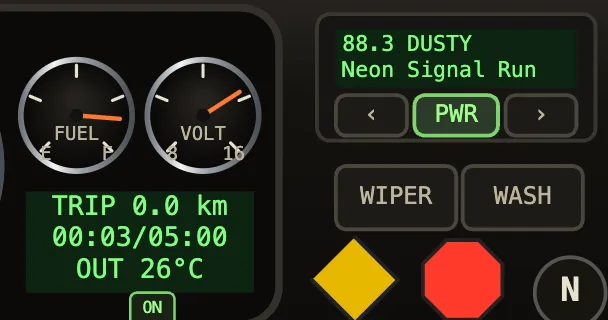
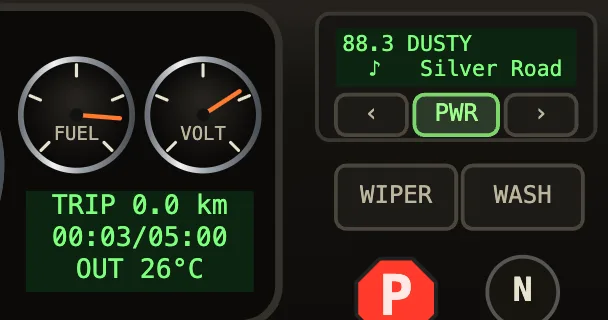
Cockpit: CAB button replaces NIGHT, gauges without end marks, PARK / shifter moved; battery as a resource (cab light on key ON, engine-off drain x2.5, rest healing, flat with the engine off = ride lost), washer x5; landing cards re-rendered

diff --git a/landing/whitepaper.html b/landing/whitepaper.html
@@ -129,7 +129,7 @@
     <article class="card3d" tabindex="0" data-live="i-rpm"><div class="img" aria-hidden="true"></div><footer><b>TACHOMETER</b><p>RPM×100. Idle 700, red zone from 2800. Below about 450 in gear with the clutch out, it stalls.</p></footer></article>
     <article class="card3d" tabindex="0" data-live="i-gear"><div class="img" aria-hidden="true"></div><footer><b>GEAR WINDOW</b><p>Current gear, amber while the engine runs: N, 1–7, R. Seven gears, ratio 6.15 → 0.75.</p></footer></article>
     <article class="card3d" tabindex="0" data-live="i-engine"><div class="img" aria-hidden="true"></div><footer><b>ENGINE GAUGES</b><p>TEMP in °C, red from about 98 °C, plateaus at 85–95. OIL and AIR follow the engine; H2O is the washer tank, it drains while you spray and refills slowly.</p></footer></article>
-    <article class="card3d" tabindex="0" data-live="i-power"><div class="img" aria-hidden="true"></div><footer><b>VOLT &amp; FUEL</b><p>VOLT is the battery: lights, heater, radio and instruments drain it, the alternator refills it only while the engine runs. FUEL drifts down with distance as a display – the truck never runs dry.</p></footer></article>
+    <article class="card3d" tabindex="0" data-live="i-power"><div class="img" aria-hidden="true"></div><footer><b>VOLT &amp; FUEL</b><p>VOLT is the battery: lights, heater, radio and instruments drain it, the alternator refills it only while the engine runs, and with the engine off it drains much faster. FUEL drifts down with distance as a display – the truck never runs dry.</p></footer></article>
     <article class="card3d" tabindex="0" data-live="i-trip"><div class="img" aria-hidden="true"></div><footer><b>TRIP LCD</b><p>Kilometres driven, shift time over the minimum and outside °C. The server's clock is the one that counts; this one is your guide.</p></footer></article>
     <article class="card3d" tabindex="0" data-live="i-bars"><div class="img" aria-hidden="true"></div><footer><b>PEDALS &amp; HULL</b><p>CLU, BRK and GAS are the pedals, HUL is hull integrity in %. Below 100 % power is cut (down to 40 %) and the steering pulls to one side; 0 % ends the shift.</p></footer></article>
     <article class="card3d" tabindex="0" data-live="i-lamps-engine"><div class="img" aria-hidden="true"></div><footer><b>LAMPS · ENGINE</b><p>STALL, COLD, STRAIN, BRAKES. Amber means watch it, red means fix it now, blinking red means seconds left.</p></footer></article>
@@ -143,8 +143,8 @@
       <tr><td><b>GEAR</b> window</td><td>Current gear; amber when the engine runs.</td><td>7 gears, ratio 6.15 → 0.75.</td></tr>
       <tr><td><b>TRIP</b> LCD</td><td>Kilometres driven, shift time over the minimum (<code>mm:ss / mm:ss</code>) and outside °C.</td><td>The server's clock is the one that counts; this one is your guide.</td></tr>
       <tr><td><b>TEMP</b></td><td>Engine temperature in °C; red from about 98 °C.</td><td>Warm up gently when it is cold; it plateaus at 85–95 °C.</td></tr>
-      <tr><td><b>VOLT</b></td><td>Battery. Lights, heater, radio and instruments drain it; the alternator refills it only while the engine runs.</td><td>Do not sit with everything on and the engine off.</td></tr>
-      <tr><td><b>H2O</b></td><td>Washer fluid tank; drains while you spray, refills slowly.</td><td>Spray in short bursts.</td></tr>
+      <tr><td><b>VOLT</b></td><td>Battery. Lights, heater, radio and instruments drain it; the alternator refills it only while the engine runs. With everything switched off it slowly recovers.</td><td>Do not sit with the key on and the engine off: a flat battery with the engine off ends the ride.</td></tr>
+      <tr><td><b>H2O</b></td><td>Washer fluid tank: about 100 s of spray per ride, it does not refill.</td><td>Spray in short bursts.</td></tr>
       <tr><td><b>AIR</b>, <b>OIL</b>, <b>FUEL</b></td><td>Air pressure and oil pressure follow the engine. FUEL drifts down with distance as a display – the truck never runs dry.</td><td>Informational.</td></tr>
       <tr><td><b>CLU · BRK · GAS · HUL</b> bars</td><td>Four LED columns: clutch, brake and gas pedal positions, and hull integrity in %.</td><td>Hull below 100 % cuts power (down to 40 %) and pulls the steering to one side; 0 % ends the shift.</td></tr>
     </tbody>
@@ -160,7 +160,7 @@
     <article><b class="lp amber">BRAKES</b><p>Hot brakes: hard stops from speed, or driving against a held brake. Hot brakes fade, the parking brake too. Full strain ends the shift.</p></article>
     <article><b class="lp red">OVER-REV</b><p>Revs above the red zone. Change up or lift.</p></article>
     <article><b class="lp amber">GRIND</b><p>A shift attempted without the clutch, or forward ↔ reverse while still rolling.</p></article>
-    <article><b class="lp amber">BAT</b><p>Battery below 30 % (red and blinking below 15 %). Below 1 % lights, radio and heater cut out and the engine will not start.</p></article>
+    <article><b class="lp amber">BAT</b><p>Battery below 30 % (red and blinking below 15 %). The engine will not crank below 12 %. Flat with the engine off, the truck is dead and the ride is over.</p></article>
   </div>
 
   <h3 class="sub">ADVICE FROM THE LONG HAUL</h3>
@@ -172,7 +172,7 @@
     <li><b>Straddle potholes, slow for trenches.</b> A yellow sign comes about 90 m before every hole. A small pothole can be passed between the wheels; a trench or sinkhole needs a lane change or a crawl.</li>
     <li><b>Keep the truck on the road.</b> Poles, guardrails, cacti and other trucks are solid; scratches and bumps cost hull, a direct hit ends the shift.</li>
     <li><b>Lights at night.</b> With no lights the world is black outside the lamp posts; oncoming traffic dazzles you. At night the headlights are the only thing lighting the road.</li>
-    <li><b>Mind the battery.</b> Headlights, heater and radio with the engine off flatten it in minutes.</li>
+    <li><b>Mind the battery.</b> With the engine off, lights, heater and radio flatten it in about a minute. Switch everything off and it recovers a little; headlights, cab light and heater together out-drain the alternator even while driving.</li>
     <li><b>Wash the glass, then wipe.</b> Dust builds up; the washer makes each wiper pass clear far more. Frost needs the heater, not wipers.</li>
     <li><b>Do not alt-tab on a paid shift.</b> A hidden tab pauses the game and earns nothing; the server will not credit those seconds.</li>
     <li><b>Respect the crossroads.</b> Junctions have signals and cross traffic, and a direct hit with another vehicle ends the shift on the spot.</li>

diff --git a/client/js/cockpit/rig.js b/client/js/cockpit/rig.js
@@ -82,12 +82,12 @@ export function drawCockpitRig() {
   gauge(cx - 14 * u, 76 * u, 11 * u, disp.v, 120, 20, 0, 'km/h', u);
   gauge(cx + 14 * u, 76 * u, 11 * u, disp.rpm, 3000, 500, 2800, 'RPM×100', u);
   for (const gx of [cx - 14 * u, cx + 14 * u]) { ctx.strokeStyle = chromeGrad(gx - 11 * u, gx + 11 * u); ctx.lineWidth = .6 * u; ctx.beginPath(); ctx.arc(gx, 76 * u, 11 * u, 0, 7); ctx.stroke(); }
-  miniGauge(cx - 31 * u, 72 * u, 4.4 * u, disp.air, null, 'AIR', '0', '120', u, 0);
-  miniGauge(cx - 41 * u, 72 * u, 4.4 * u, disp.oil, null, 'OIL', '0', '80', u, 0);
-  miniGauge(cx - 31 * u, 82 * u, 4.4 * u, disp.temp, null, 'TEMP', 'C', 'H', u, .8);
-  miniGauge(cx - 41 * u, 82 * u, 4.4 * u, disp.h2o, null, 'H2O', 'E', 'F', u, 0);
-  miniGauge(cx + 31 * u, 72 * u, 4.4 * u, disp.fuel, null, 'FUEL', 'E', 'F', u, 0);
-  miniGauge(cx + 41 * u, 72 * u, 4.4 * u, disp.volt, null, 'VOLT', '8', '16', u, 0);
+  miniGauge(cx - 31 * u, 72 * u, 4.4 * u, disp.air, null, 'AIR', '', '', u, 0);
+  miniGauge(cx - 41 * u, 72 * u, 4.4 * u, disp.oil, null, 'OIL', '', '', u, 0);
+  miniGauge(cx - 31 * u, 82 * u, 4.4 * u, disp.temp, null, 'TEMP', '', '', u, .8);
+  miniGauge(cx - 41 * u, 82 * u, 4.4 * u, disp.h2o, null, 'H2O', '', '', u, 0);
+  miniGauge(cx + 31 * u, 72 * u, 4.4 * u, disp.fuel, null, 'FUEL', '', '', u, 0);
+  miniGauge(cx + 41 * u, 72 * u, 4.4 * u, disp.volt, null, 'VOLT', '', '', u, 0);
   ctx.fillStyle = !pw ? '#1d1409' : st.engineOn ? '#ffb03a' : '#5a3a14'; ctx.font = `bold ${6 * u}px ${MONO}`; ctx.textAlign = 'center'; ctx.textBaseline = 'middle'; ctx.fillText(gearName(st.gear), cx, 77 * u);
   ctx.fillStyle = '#9d957f'; ctx.font = `${1.5 * u}px ${MONO}`; ctx.fillText('GEAR', cx, 73.2 * u);
   // trip LCD
@@ -104,13 +104,13 @@ export function drawCockpitRig() {
   radioPanel(rx, u, pw);
   uiButton('wiper', wip.mode ? 'WIPER ' + wip.mode : 'WIPER', rx + 1.5 * u, 76 * u, 9.5 * u, 5 * u, u, wip.mode > 0);
   uiButton('wash', 'WASH', rx + 11.5 * u, 76 * u, 9.5 * u, 5 * u, u, st.washing);
-  { const vy = 85 * u, px = rx + 6.25 * u;   // centred under the WIPER button
+  { const vy = 86.5 * u, px = rx + 6.25 * u;   // centred under the WIPER button
     uiBtns.push({ id: 'park', x: px - 3.6 * u, y: vy - 3.6 * u, w: 7.2 * u, h: 10.4 * u }); ctx.fillStyle = st.park ? '#ff3a2a' : '#6b1f1a'; ctx.beginPath(); for (let i = 0; i < 8; i++) { const an = Math.PI / 8 + i * Math.PI / 4; ctx.lineTo(px + Math.cos(an) * 3.4 * u, vy + Math.sin(an) * 3.4 * u); } ctx.closePath(); ctx.fill(); ctx.strokeStyle = '#222'; ctx.lineWidth = .3 * u; ctx.stroke();
     ctx.fillStyle = st.park ? '#ffe9e4' : '#c9a29c'; ctx.font = `bold ${4.4 * u}px ${MONO}`; const tb = ctx.textBaseline; ctx.textBaseline = 'middle'; ctx.fillText('P', px, vy + .2 * u); ctx.textBaseline = tb;
     ctx.fillStyle = st.park ? '#ff8a7a' : '#9d957f'; ctx.font = `${1.5 * u}px ${MONO}`; ctx.fillText('PARK', px, vy + 5.2 * u); }
   ignitionPanel(cx + 37 * u, 96.2 * u, u * .78);   // scaled down so the ON zone stays inside the dash panel border
-  { const bw = 8.4 * u, bh = 4 * u, gx = cx - 49 * u, gy = 90.8 * u, gap = .8 * u;   // 2x2 switch grid left of the wheel
-    uiButton('head', 'HEAD', gx, gy, bw, bh, u, dn.head); uiButton('night', 'NIGHT', gx + bw + gap, gy, bw, bh, u, dn.night);
+  { const bw = 8.4 * u, bh = 4 * u, gx = cx - 48 * u, gy = 90.8 * u, gap = .8 * u;   // 2x2 switch grid left of the wheel
+    uiButton('head', 'HEAD', gx, gy, bw, bh, u, dn.head); uiButton('cab', 'CAB', gx + bw + gap, gy, bw, bh, u, dn.cab);
     heatButton(gx, gy + bh + gap, 2 * bw + gap, bh, u); }   // (the cab light has no button: click the dome lamp in the overhead console, or press C)
   // steering column + big wheel
   ctx.fillStyle = '#12100e'; ctx.beginPath(); ctx.moveTo(cx - 6 * u, 88 * u); ctx.lineTo(cx + 6 * u, 88 * u); ctx.lineTo(cx + 9 * u, 112 * u); ctx.lineTo(cx - 9 * u, 112 * u); ctx.fill();
@@ -124,7 +124,7 @@ export function drawCockpitRig() {
   ctx.fillStyle = wl.mark; ctx.beginPath(); ctx.arc(0, -R, 1.2 * u, 0, 7); ctx.fill();   // 12-o'clock marker
   ctx.restore();
   // floor shifter (H pattern, 4 columns: 1/2, 3/4, 5/6, 7/R)
-  { const bx = cx + 68 * u, g = st.gear;
+  { const bx = rx + 16.25 * u, g = st.gear;   // centred under WASH
     const col = g === 0 ? 0 : g < 0 ? 1.5 : [-1.5, -1.5, -.5, -.5, .5, .5, 1.5][g - 1], row = g === 0 ? 0 : g < 0 ? 1 : [-1, 1, -1, 1, -1, 1, -1][g - 1];   // R: right, back
     const lv = leverPos(col, row), kx = bx + lv.col * 2.6 * u, ky = 86 * u + lv.row * 2.6 * u;   // tweened through the neutral channel
     ctx.fillStyle = gb.boot; ctx.beginPath(); ctx.ellipse(bx, 100 * u, 6 * u, 2.6 * u, 0, 0, 7); ctx.fill();

diff --git a/client/js/sim/battery.js b/client/js/sim/battery.js
@@ -6,17 +6,19 @@ import { toast } from '../ui/toast.js';
 import { audio } from './audio.js';
 
 /* Battery (st.batt 0..1, the BAT lamp + VOLT gauge). Drained by the headlights, cab lamp, heater blower, radio, the key-on instruments and the starter;
-   the alternator refills it while the engine runs (more at higher revs, tapering off as it fills). Dead = lights, radio and heater cut out and the engine can't be started. */
-/* the cab light only works with the engine running or starting (its switch is the dome lamp / C) */
-export const cabAllowed = () => st.engineOn || !!st.ign;
+   the alternator refills it while the engine runs (more at higher revs, tapering off as it fills). With the engine OFF every consumer drains OFF_X× faster (nothing recharges it);
+   with everything switched off (key OFF, no lights) it slowly heals up to REST_MAX. Flat (≤ DEAD) with the engine off = the truck is dead, the ride is lost (`st.battLost`, ended in physics.js). */
+/* the cab light works whenever the electrics are on – key ON with the engine off, cranking or running (its switch is the dome lamp / the CAB button / C) */
+export const cabAllowed = () => powered();
 export function toggleCab() {
-  if (!dn.cab && !cabAllowed()) { toast('Cab light needs the engine running – start it first', 1800); return; }
+  if (!dn.cab && !cabAllowed()) { toast('Cab light needs the key on – turn it to ON first', 1800); return; }
   dn.cab = !dn.cab; audio.play(dn.cab ? 'switch' : 'switch-off'); toast(dn.cab ? 'Cab light on' : 'Cab light off', 1000);
 }
 export function updateBattery(dt) {
-  if (!cabAllowed()) dn.cab = false;   // engine stopped / stalled / key off: the lamp goes out with it
+  if (!cabAllowed()) dn.cab = false;   // key off: the lamp goes out with it
   const cranking = st.ign && st.ign.t >= 1.0, B = CFG.BATT;
   let drain = 0;
+  const flatten = st.engineOn ? 1 : B.OFF_X;   // engine off: the battery is all there is
   if (dn.head) drain += B.HEAD;
   if (dn.cab) drain += B.CAB;
   if (powered()) {
@@ -24,14 +26,18 @@ export function updateBattery(dt) {
     if (st.heater) drain += B.HEATER;
     if (radio.on) drain += B.RADIO;
   }
+  drain *= flatten;
   if (cranking) drain += B.STARTER;
   let charge = 0;
   if (st.engineOn) charge = (B.CHARGE_MIN + B.CHARGE_RPM * clamp(st.rpm / REDLINE, 0, 1)) * clamp((1 - st.batt) * 4, .15, 1);
+  if (!st.engineOn && !cranking && drain === 0 && st.batt < B.REST_MAX) charge = B.REST;   // everything off: the battery recovers a little (up to REST_MAX)
   const was = st.batt;
   st.batt = clamp(st.batt + (charge - drain) * dt, 0, 1);
+  if (!st.engineOn && !cranking && was >= B.CRITICAL && st.batt < B.CRITICAL) audio.play('alarm'), toast('BATTERY CRITICAL – switch everything off to let it recover, or start the engine', 4500);
   if (was >= B.LOW && st.batt < B.LOW) audio.play('warn'), toast(st.engineOn ? 'Battery low – too many consumers for these revs' : 'Battery low – switch things off or start the engine to recharge', 3500);
   if (st.batt < B.DEAD) {   // flat: everything electric cuts out until the engine has put some charge back
     if (!st.battDead) { st.battDead = true; audio.play('alarm'); toast('BATTERY DEAD – lights, radio and heater are out' + (st.engineOn ? '' : ', the engine will not start'), 4000); }
   } else if (st.battDead && st.batt > B.DEAD * 3) st.battDead = false;
+  if (!st.engineOn && !cranking && st.batt <= B.DEAD) st.battLost = true;   // flat with nothing to charge it: the ride is over (physics.js)
   if (st.battDead) { dn.head = false; dn.cab = false; st.heater = false; if (radio.on) radio.toggle(); }
 }

diff --git a/client/js/config.js b/client/js/config.js
@@ -112,13 +112,17 @@ export const CFG = {
   BRAKE_COOL: 0.04,          // 1/s cooling towards cold (time constant ≈ 25 s)
   BRAKE_COOL_AIR: 2,         // extra cooling at full speed (× this; moving air)
   BRAKE_FADE_FROM: 0.3,      // heat above which the brakes start to fade
+  WASH_DRAIN: 0.01,          // washer-fluid tank (st.wash 0..1) drained per second of spray: 100 s per ride (was 0.05 = 20 s; ×5 capacity), no refill
   BATT: {                    // battery (sim/battery.js): charge 0..1, per second
     START: 0.85,             // charge at the start of a ride
-    HEAD: 0.0025, CAB: 0.0006, HEATER: 0.0015, RADIO: 0.001, KEY_ON: 0.0003,   // consumers (engine off or on); headlights alone flatten it in ≈ 6 min. TEST-scale like the 5 min ride
+    HEAD: 0.0025, CAB: 0.0015, HEATER: 0.0015, RADIO: 0.001, KEY_ON: 0.0008,   // consumers (engine off or on); headlights alone flatten it in ≈ 6 min. TEST-scale like the 5 min ride
+    OFF_X: 2.5,              // the consumers above drain this many times faster with the engine OFF (only the battery feeds them): HEAD + CAB + key-on ≈ 70 s from full to flat
+    REST: 0.002, REST_MAX: 0.5,   // everything off (key OFF, no lights): the charge creeps back per second, up to REST_MAX – a rest buys a restart, not a full battery
+    CRITICAL: 0.2,           // engine off below this: alarm + toast; at DEAD (below) with the engine off the truck is dead and the ride is lost
     STARTER: 0.06,           // while cranking (~1.3 s)
     CHARGE_MIN: 0.002, CHARGE_RPM: 0.0025,   // alternator: at idle … at redline (≈ .003 at cruise); × a taper above ~75 % charge. Headlights alone are sustainable while driving; HEAD + CAB + HEAT together never are
     LOW: 0.3, DEAD: 0.01,    // BAT lamp amber below LOW (red + blinking below LOW/2), everything out below DEAD
-    START_MIN: 0.06,         // the starter needs at least this much
+    START_MIN: 0.12,         // the starter needs at least this much (a crank costs ≈ .085, so a start that works never ends below DEAD)
   },
   FIGHT_HEAT: 0.12,          // brake heat (0..1) per second while the engine pushes against a held brake (parking brake / pedal) with the clutch out – the brakes fade, the truck starts to creep
   FIGHT_TIME: 8,             // s of driving against the brakes until the drivetrain gives out (STRAIN lamp fills, ride ends). TEST value like STRAIN_TIME

diff --git a/client/js/sim/physics.js b/client/js/sim/physics.js
@@ -64,7 +64,7 @@ export function update(dt) {
   const tgt = input.right - input.left, T = CFG.TRUCK;
   st.steer = approach(st.steer, tgt, tgt ? T.STEER_RATE : T.STEER_RETURN, dt);
   st.keyDeny = Math.max(0, (st.keyDeny || 0) - dt * 2.5); st.grind = Math.max(0, st.grind - dt); st.jolt = Math.max(0, st.jolt - dt * 2.5); st.rumble = Math.max(0, st.rumble - dt * .7); st.crash = Math.max(0, st.crash - dt * 2.2); st.flash = Math.max(0, st.flash - dt * 1.6);
-  const wasWashing = st.washing; st.washing = !!input.wash && st.wash > .02; if (st.washing && (!wasWashing || (washT -= dt) <= 0)) { washT = .55; audio.play('washer'); } st.wash = clamp(st.wash - (st.washing ? .05 : 0) * dt, 0, 1);   // washer-fluid tank: finite (20 s of spray per ride, no refill)
+  const wasWashing = st.washing; st.washing = !!input.wash && st.wash > .02; if (st.washing && (!wasWashing || (washT -= dt) <= 0)) { washT = .55; audio.play('washer'); } st.wash = clamp(st.wash - (st.washing ? CFG.WASH_DRAIN : 0) * dt, 0, 1);   // washer-fluid tank: finite (CFG.WASH_DRAIN: 100 s of spray per ride, no refill)
 
   // engine
   const g = st.gear, ratio = g < 0 ? REV_RATIO : RATIOS[g], c = 1 - st.clutch, wheelRpm = st.v * ratio * K_RPM;
@@ -155,6 +155,7 @@ export function update(dt) {
   // end conditions
   if (fatal) endRide(false, fatal);
   else if (st.hull <= 0) endRide(false, st.blown ? (st.blownWhy === 'brakes' ? 'The drivetrain gave out – you drove against the brakes for too long.' : 'The engine blew – it was held at max revs for too long.') : st.coldT > 0 ? 'The engine gave out – you pushed it hard while it was still cold.' : 'Your truck was wrecked – the hull gave out.');
+  else if (st.battLost) endRide(false, 'The battery went flat with the engine off – the truck is dead.');
   else if (st.offT > CFG.OFFROAD_FAIL_SECONDS || Math.abs(st.d) > 80) endRide(false, 'You spent too long off the road – the truck is stuck in the sand.');
 }
 

diff --git a/client/js/state.js b/client/js/state.js
@@ -11,7 +11,7 @@ export const K_RPM = 2400 / (30 * 0.75);     // wheel rpm per (m/s · ratio)
 export const IDLE = 700, REDLINE = 2800, STALL_RPM = 450;
 /* Every per-ride field and its start value: the initial `st` below and resetRide() (ui/game.js) both use it, so a new field is added in ONE place.
    The varying ones are passed in: engine/rpm (CFG.START_ENGINE_OFF), engine temperature (ambient), steering pull side (random per ride). */
-export const rideStart = ({ rpm, engineOn, temp, pull }) => ({ s: 0, d: 2.4, psi: 0, v: 0, gear: 0, rpm, freeRpm: IDLE, engineOn, batt: CFG.BATT.START, battDead: false, park: true,   // the truck starts parked: release the brake (B / PARK) before moving
+export const rideStart = ({ rpm, engineOn, temp, pull }) => ({ s: 0, d: 2.4, psi: 0, v: 0, gear: 0, rpm, freeRpm: IDLE, engineOn, batt: CFG.BATT.START, battDead: false, battLost: false, park: true,   // the truck starts parked: release the brake (B / PARK) before moving
   fight: false, blownWhy: null, stallT: 0, noStall: 0, ign: null, keyOn: false, test: 1, rumble: 0, air: 0.2, temp, heater: false, heatEff: 0, coldT: 0, strain: 0, brakeT: 0, _brakeWarned: false, blown: false, _coldWarned: false, tyaw: 0, vel: 0, rev: false, off: false, complete: false, reds: 0, hull: 100, crash: 0, flash: 0, pull, cracks: [], scratches: [], wash: 1, washing: false, clutch: 0, gas: 0, brake: 0, steer: 0, t: 0, offT: 0, bugs: [], bugT: 4, grind: 0, jolt: 0, overrev: false });
 export const st = {
   mode: 'menu', watch: false,   // watch: a spectator's replay of someone else's ride (watch.js) – mode stays 'drive' so every visual runs, but no input and no sim

diff --git a/landing/src/wp-scenes.js b/landing/src/wp-scenes.js
@@ -46,7 +46,7 @@ export const WP_SCENES = {
   }, { t0: 2 }),
 
   /* ── when you need them ── */
-  'lights': scene([296, 540, 150, 93], (t, { st, dn }) => { Object.assign(dn, { k: 1, night: true, head: t % 6 < 3.5 }); st.batt = .7; }, { t0: 1, mark: () => [300, 570, 120, 34] }),   // night: HEAD toggles, NIGHT stays lit
+  'lights': scene([296, 540, 170, 93], (t, { st, dn }) => { Object.assign(dn, { k: 1, night: true, head: t % 6 < 3.5 }); st.batt = .7; }, { t0: 1, mark: () => [300, 570, 150, 34] }),   // night: HEAD toggles, CAB stays off
   'cab-light': scene([540, 0, 200, 133], (t, { dn }) => { Object.assign(dn, { k: 1, night: true, cab: t % 4 < 2 }); }, { t0: .5 }),   // night: the dome lamp (it sits on the see-through windscreen, so only the lamp and its halo show)
   'heater': scene([290, 490, 215, 143], (t, { st }) => { const k = wave(t, .8, -1.6); Object.assign(st, { heater: true, heatEff: k, temp: -12 + 50 * k }); }, { t0: 4, mark: () => [300, 603, 120, 30] }),
   'wipers': scene([956, 470, 142, 95], (t, { st, wip }) => { wip.mode = Math.floor(t / 2) % 3; st.washing = t % 6 > 4.5; }, { t0: 2.5, mark: () => [962, 477, 132, 40] }),

diff --git a/landing/src/dash-scenes.js b/landing/src/dash-scenes.js
@@ -19,7 +19,7 @@ export const SCENES = {
   lamps: { crop: [176, 396, 164, 134], tick(t, { st }) {   // cold engine, strain charging, hot brakes, flat battery; OFF ROAD / OVER-REV / GRIND / STALL now and then
     Object.assign(st, { engineOn: true, keyOn: true, temp: -30, strain: .2 + .7 * (.5 + .5 * Math.sin(t * .8)), brakeT: .45, batt: .25, off: t % 6 > 3, overrev: t % 7 > 5.5, grind: t % 9 > 8 ? .5 : 0, lug: t % 5 > 3 ? .4 : 0 });
   } },
-  lights: { crop: [176, 400, 244, 233], tick(t, { st, dn }) {   // night: HEAD / cab light toggling, HEAT warming, pedal bars moving
+  lights: { crop: [176, 400, 284, 233], tick(t, { st, dn }) {   // night: HEAD / cab light toggling, HEAT warming, pedal bars moving
     Object.assign(dn, { k: 1, night: true, head: t % 6 < 4, cab: t % 8 < 4 });
     Object.assign(st, { engineOn: true, keyOn: true, heater: true, heatEff: .5 + .5 * Math.sin(t * .7), clutch: .5 + .5 * Math.sin(t * 1.3), brake: Math.max(0, Math.sin(t * .7)), gas: .5 + .5 * Math.sin(t * .9 + 1), hull: 82 });
   } },
